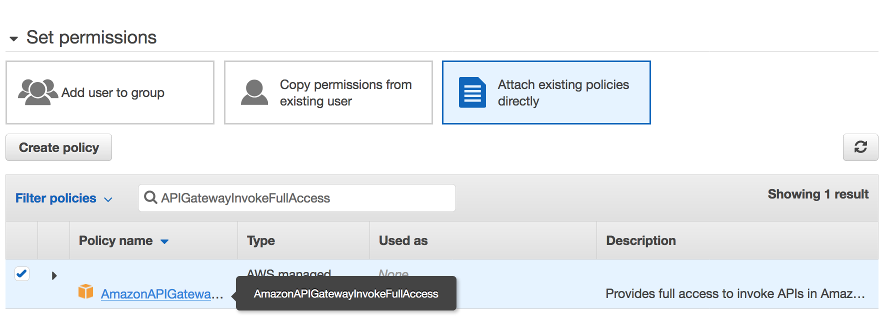
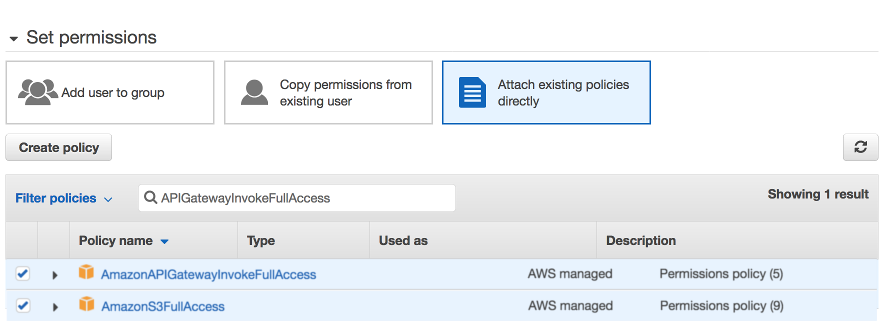
update tutorial materials

Changed region(s): [[0.0, 0.8075, 0.5157, 0.9938], [0.5764, 0.8385, 0.9708, 0.9938], [0.0, 0.8385, 0.0303, 0.8696]]

diff --git a/deployment/tutorials/2-restful-api.md b/deployment/tutorials/2-restful-api.md
@@ -37,13 +37,18 @@ Media2Cloud RESTful API endpoint requires AWS_IAM authentication; therefore, we 
 aws iam create-user --user media2cloud-api-user
 ```
 
-3. Attach **AmazonAPIGatewayInvokeFullAccess** policy to the user
+3. Attach **AmazonAPIGatewayInvokeFullAccess** and **AmazonS3FullAccess** policies to the user
 
 ```
 aws iam attach-user-policy \
 --policy-arn arn:aws:iam::aws:policy/AmazonAPIGatewayInvokeFullAccess \
 --user media2cloud-api-user
+
+aws iam attach-user-policy \
+--policy-arn arn:aws:iam::aws:policy/AmazonS3FullAccess \
+--user media2cloud-api-user
 ```
+
 
 4. Create access key
 
@@ -64,19 +69,8 @@ aws iam create-access-key --user media2cloud-api-user
 }
 ```
 
-#### Option 2 - Using AWS Management Console to create an IAM user
-1. Go to **IAM service**
-2. Click on **Users**
-3. Click on **Add user**, specify **User name**. Under **Access type**, make sure **Programmatic access** is _CHECKED_. Click Next to continue.
-![Add user details](./images/iam-add-user-details.png)
-4. Under **Set permission**, select **Attach existing policies directly**. Search for APIGatewayInvokeFullAccess and select **AmazonAPIGatewayInvokeFullAccess**. Click Next to continue.
-![User permission](./images/iam-add-user-permission.png)
-5. Under Add Tag page, Click Next to continue
-6. Under Review page, Click **Create user**
-7. You just created an IAM user to user Media2Cloud RESTful APIs. Make sure you download the csv file of your API user. We will need it to configure Postman in the next section.
-![API user credential](./images/iam-add-user-credentials.png)
+**IMPORTANT NOTE:** For simplicity, this tutorial uses **AmazonAPIGatewayInvokeFullAccess** and **AmazonS3FullAccess** policies. For production or staging environment, we highly recommend you to limit the policy to the least privilege access. For example, you can create a policy to allow the api user to only being able to invoke Media2Cloud RESTful API endpoints and access to specific bucket(s) but provide **no permission** to other resources.
 
-**IMPORTANT NOTE:** For simplicity, this tutorial uses **AmazonAPIGatewayInvokeFullAccess** policy. For production or staging environment, we highly recommend you to limit the policy to the least privilege access. For example, you can create a policy to allow the api user to only being able to invoke Media2Cloud RESTful API endpoints and **no permission** to other resources.
 ```
 {
   "Version": "2012-10-17",
@@ -95,15 +89,40 @@ aws iam create-access-key --user media2cloud-api-user
         "arn:aws:execute-api:<region>:<account-id>:<api-id>/<stage>/POST/*",
         "arn:aws:execute-api:<region>:<account-id>:<api-id>/<stage>/DELETE/*"
       ]
+    },
+    {
+      "Effect": "Allow",
+      "Principal": {
+        "AWS": "arn:aws:iam::<account>:user/media2cloud-api-user"
+      },
+      "Action": [
+        "s3:GetObject",
+        "s3:PutObject"
+      ],
+      "Resource": [
+        "arn:aws:s3:::<ingest-bucket-name>/*"
+      ]
     }
   ]
 }
 ```
 
+#### Option 2 - Using AWS Management Console to create an IAM user
+1. Go to **IAM service**
+2. Click on **Users**
+3. Click on **Add user**, specify **User name**. Under **Access type**, make sure **Programmatic access** is _CHECKED_. Click Next to continue.
+![Add user details](./images/iam-add-user-details.png)
+4. Under **Set permission**, select **Attach existing policies directly**. Search for **AmazonAPIGatewayInvokeFullAccess** and **AmazonS3FullAccess** and attach both policies. Click Next to continue.
+![User permission](./images/iam-add-user-permission.png)
+5. Under Add Tag page, Click Next to continue
+6. Under Review page, Click **Create user**
+7. You just created an IAM user to user Media2Cloud RESTful APIs. Make sure you download the csv file of your API user. We will need it to configure Postman in the next section.
+![API user credential](./images/iam-add-user-credentials.png)
+
 --
 
 ### Step 3: Install and configure Postman
-For this tutorial, we will use Postman application to send requests. [Click here](https://www.getpostman.com/apps) to download and install it.
+For this tutorial, we will use Postman application to send requests. If you have not installed it, [download](https://www.getpostman.com/apps) and install it.
 
 
 #### Step 3.1: Import the Media2Cloud Postman collection template
@@ -150,6 +169,8 @@ For simplity, we created a Postman collection template (JSON document) to help y
 
 4. Replace **\<aws-region\>** to the actual AWS region where you create the Media2Cloud stack. AWS Region should is something like **us-east-1**, **us-west-2**, **eu-west-1**, and etc.
 
+5. Find **\<Media2CloudEndpoint\>** and replace all **six** appearances to the actual Media2CloudEndpoint you obtain in [Step 1: Locate your Media2Cloud RESTful API endpoint](./2-restful-api.md#step-1-locate-your-media2cloud-restful-api-endpoint)
+
 5. After you make the change, save the template.
 
 6. Open Postman application, click on **Import** button, and import the template
@@ -172,8 +193,6 @@ To start the ingest, we assume that your video file is already **uploaded** to t
 | Body | JSON document contains **bucket** and **key** |
 
 Click on **Start ingest** request from the Media2Cloud collection menu.
-
-Replace **\<Media2CloudEndpoint\>** with the actual Media2CloudEndpoint you obtain from [Step 1: Locate your Media2Cloud RESTful API endpoint](./2-restful-api.md#step-1-locate-your-media2cloud-restful-api-endpoint)
 
 Click on **Body** to change the JSON body to use the the actual ingest bucket name and object key.
 ```
@@ -219,15 +238,13 @@ where
 --
 
 ### Step 5: Get a list of files ingested in Media2Cloud
-To get a list of files, click on **Get a list of ingested contents** request from the Media2Cloud collection menu.
+To get a list of files, click on **Get a list of ingested content** request from the Media2Cloud collection menu.
 
 | Field | Value |
 |:---  |:------------|
 | Method | GET |
 | URL | https://**\<Media2CloudEndpoint\>**/assets |
 | Body | -- |
-
-Replace **\<Media2CloudEndpoint\>** with the actual Media2CloudEndpoint you obtain from [Step 1: Locate your Media2Cloud RESTful API endpoint](./2-restful-api.md#step-1-locate-your-media2cloud-restful-api-endpoint)
 
 Click on **Send**
 
@@ -272,8 +289,6 @@ To get the detail of a specifc ingested content, click on **Get information of a
 | Method | GET |
 | URL | https://**\<Media2CloudEndpoint\>**/assets/**\<uuid\>** |
 | Body | -- |
-
-Replace **\<Media2CloudEndpoint\>** with the actual Media2CloudEndpoint you obtain from [Step 1: Locate your Media2Cloud RESTful API endpoint](./2-restful-api.md#step-1-locate-your-media2cloud-restful-api-endpoint)
 
 Replace **\<uuid\>** with the actual **uuid** of the file.
 
@@ -339,8 +354,6 @@ To start analysis process, click on **Start analysis** request from the Media2Cl
 | URL | https://**\<Media2CloudEndpoint\>**/analysis |
 | Body | JSON document contains **uuid** |
 
-Replace **\<Media2CloudEndpoint\>** with the actual Media2CloudEndpoint you obtain from [Step 1: Locate your Media2Cloud RESTful API endpoint](./2-restful-api.md#step-1-locate-your-media2cloud-restful-api-endpoint)
-
 Replace **\<uuid\>** with the **uuid** from [Step 4](./2-restful-api.md#step-4-start-to-ingest-content-to-media2cloud)
 
 ```
@@ -383,8 +396,6 @@ To get the analysis results of a file, click on **Get analysis results** from th
 | Method | GET |
 | URL | https://**\<Media2CloudEndpoint\>**/analysis/\<uuid\> |
 | Body | -- |
-
-Replace **\<Media2CloudEndpoint\>** with the actual Media2CloudEndpoint you obtain from [Step 1: Locate your Media2Cloud RESTful API endpoint](./2-restful-api.md#step-1-locate-your-media2cloud-restful-api-endpoint)
 
 Replace **\<uuid\>** with the actual **uuid** of the file
 
@@ -458,10 +469,11 @@ where
 | rekognition.celeb.id | Rekognition job id |
 | rekognition.celeb.startTime | start time of celeb detection |
 | rekognition.celeb.endTime | end time of celeb detection |
-| rekognition.celeb.metadata | key prefix of metadata and vtt tracks |
+| rekognition.celeb.metadata | key prefix of metadata tracks |
+| rekognition.celeb.vtt | key prefix of vtt tracks |
 | rekognition.celeb.trackBasenames | tracks generated by M2C |
-| rekognition.celeb.trackBasenames.metadata | a list of metadata tracks generated by M2C |
 | rekognition.celeb.trackBasenames.metadata | a list of webvtt tracks generated by M2C |
+| rekognition.celeb.trackBasenames.vtt | a list of vtt tracks generated by M2C |
 | comprehend | comprehend detection |
 | comprehend.keyphrase | comprehend key phrase detection |
 | comprehend.keyphrase.output | location of the raw keyphrase detection results |
@@ -471,16 +483,14 @@ where
 
 --
 
-### Step 9: Search contents
-To search contents from Amazon Elasticsearch engine, click on **Search Elasticsearch engine** from the Media2Cloud collection menu.
+### Step 9: Search content
+To search content from Amazon Elasticsearch engine, click on **Search Elasticsearch engine** from the Media2Cloud collection menu.
 
 | Field | Value |
 |:---  |:------------|
 | Method | GET |
 | URL | https://**\<Media2CloudEndpoint\>**/search?query=**\<search-term\>** |
 | Body | -- |
-
-Replace **\<Media2CloudEndpoint\>** with the actual Media2CloudEndpoint you obtain from [Step 1: Locate your Media2Cloud RESTful API endpoint](./2-restful-api.md#step-1-locate-your-media2cloud-restful-api-endpoint)
 
 Replace **\<search-term\>** with the actual search teram; i.e, **john**
 
@@ -503,7 +513,7 @@ where
 |:---  |:------------|
 | uuids | a list of content uuids matches the search term |
 | token | a token indicating the current pagination position of search result list. You can use it to page the next results by add it to the query string. For example, <br>_https://\<Media2CloudEndpoint\>/search?query=\<search-term\>&**token=2**_ |
-| total | total number of contents that matches the search term |
+| total | total number of items that matches the search term |
 
 ----
 

diff --git a/deployment/tutorials/appendix-a-add-cognito-user.md b/deployment/tutorials/appendix-a-add-cognito-user.md
@@ -1,6 +1,6 @@
 ## Appendix A: adding user to Media2Cloud web portal with Amazon Cognito User Pool service
 
-This tutorial describes how you can create new user and grant permission to access Media2Cloud web portal.
+This tutorial describes how you can create a new user and grant permission to access Media2Cloud web portal.
 
 ----
 
@@ -13,7 +13,7 @@ Under _AWS Management console_, choose **Amazon Cognito service** and select _Ma
 
 ### Step 2: Select Media2Cloud user pool
 You should see two user pools created by Media2Cloud: one for your labeling workteam and one for Media2Cloud web portal.
-Select the user pool suffixed with **-userpool**. (The name convention is SO0050-**<StackName>**-userpool)
+Select the user pool suffixed with **-userpool**. (The name convention is SO0050-**\<stack-name\>**-userpool)
 
 ![Choose user pool](./images/cognito-choose-user-pool.png)
 
@@ -28,6 +28,7 @@ Under _General settings_, select **Users and groups**. Click on **Create user**.
 
 ### Step 4: Fill in user details
 Fill in the following information:
+
 | Field | Description | Required? |
 |:------|:------------|:----------|
 | Username | your log in name to Media2Cloud web portal | Yes |
@@ -37,11 +38,20 @@ Fill in the following information:
 | Mark phone number as verified? | Leave it blank | No |
 | Email | a valid email address to receive an invitation email from Media2Cloud | Yes |
 | Mark email as verified? | Make sure this is **CHECKED** | Yes |
+
+
 ![Create user](./images/cognito-create-user-details.png)
 
+Click on **Create user**.
 
-Click on **Create user**. In a few minutes, you should receive an invitation email as follows.
+--
+
+### Step 5: Invitation email
+In a few minutes, you should receive an **invitation email** as follows.
+
 ![Invitation email](./images/welcome-email.png)
+
+Open the link with [Mozilla Firefox](https://www.mozilla.org/en-US/firefox/new/) or [Google Chrome](https://www.google.com/chrome/) browser.
 
 ----
 

diff --git a/deployment/tutorials/3-s3-event-trigger.md b/deployment/tutorials/3-s3-event-trigger.md
@@ -13,7 +13,7 @@ aws s3 cp some-video.mp4 s3://<ingest-bucket-name>/demo/ [--proile <your-profile
 where **\<ingest-bucket-name\>** you can find it from AWS CloudFormation console:
   * Go to **AWS CloudFormation console**, select the **Media2Cloud** stack you created
   * Click on **Outputs** tab and search for **IngestBucket**
-2. When the file is landed on S3 bucket, S3 sends a s3:ObjectCreated:* notification where we will configure a lambda function to subscribe to that notification and to process the event.
+2. When the file landed in the S3 bucket, S3 sends a s3:ObjectCreated:* notification where we will configure a lambda function to subscribe to that notification and to process the event.
 3. The lambda function parses the notification event and calls Media2Cloud RESTful APIs to ingest the file.
 4. The ingest API (POST /assets) invokes the ingest process by starting a state machine.
 
@@ -36,7 +36,7 @@ Under Create function page, choose **Author from scratch** and fill in the follo
 
 ![Create lambda function](./images/lambda-create-function.png)
 
-Click _Next_ to continue.
+Click _Create function_ to continue.
 
 --
 
@@ -72,7 +72,7 @@ This should bring you to **Identity and Access Management (IAM)** service. Click
 
 ![IAM execution role summary](./images/iam-role-summary.png)
 
-Under Attach Permissions page, search **AmazonAPIGatewayInvoke**, check the checkbox, and **Attach policy**.
+Under Attach Permissions page, search **AmazonAPIGatewayInvokeFullAccess**, check the checkbox, and **Attach policy**.
 
 ![Attach API policy](./images/iam-attach-api-policy.png)
 
@@ -138,7 +138,7 @@ Search for , you should see
 ```
   /**
     * TODO#5: What is the path for starting ingest process?
-    * Tips: Review Tutorial #2, Using Media2Cloud RESTful API
+    * Tips: Review Tutorial #2, Using Media2Cloud RESTful API. Do not include '/demo'
     */
   function getIngestHttpPath() {
     return '#INGEST_PATH';

diff --git a/deployment/tutorials/README.md b/deployment/tutorials/README.md
@@ -1,7 +1,14 @@
-## Media2Cloud tutorial
+## Media2Cloud mini workshop
 
 This tutorial walks you through to create Media2Cloud with AWS CloudFormation service. We will then show you a few techniques to automate Media2Cloud processes such as ingesting contents and analyzing contents with various AWS services.
 
+### Prerequisite
+* Download and install [Mozilla Firefox](https://www.mozilla.org/en-US/firefox/new/) or [Google Chrome](https://www.google.com/chrome/) browser. We will use it to access the Media2Cloud web portal.
+* Download and install [Postman](https://www.getpostman.com/apps). We will use it for Step 2.
+* Optionally if you need some sample files to test, download it [here](http://d2yqlwoly7fl0b.cloudfront.net/tutorials/samples/sample-files.zip)
+
+
+### Mini workshop rundown
 We will start off with creating your own Media2Cloud instance. Then, we will use Media2Cloud RESTful api to drive the ingest and analysis processes; use Amazon S3 event to autostart ingest process when you upload a file. At last, we will use Amazon SNS notification to autostart the analysis process when the file has been ingested. Appendix A shows you how you can add and manage Media2Cloud users with Amazon Cognito User Pool service.
 
 

diff --git a/deployment/tutorials/4-sns-notification.md b/deployment/tutorials/4-sns-notification.md
@@ -13,7 +13,7 @@ where
 
 So, to get this to work, we will:
 * reuse the lambda function we created earlier
-* add a trigger to let Amazon SNS service to invoke our lambda function
+* add a trigger to let Amazon SNS service invoke our lambda function
 * modify the code to support SNS notification
 * test it out
 
@@ -50,13 +50,13 @@ Click on _Add_.
 ```
   /**
   * TODO#7: What should the HTTP method be for starting analysis process?
-  * Tips: Review Tutorial #2, Using Media2Cloud RESTful API
+  * Tips: Review Tutorial #2, Using Media2Cloud RESTful API. Do not include '/demo'
   */
   function getAnalysisHttpPath() {
     return '#ANALYSIS_PATH';
   }
 ```
-* You can also look at the function to deconstruct SNS message
+* This function we have already written for you shows how to parse an SNS message
 ```
   function getUuidFromSnsEvent(event) {
     const message = JSON.parse(event.Records[0].Sns.Message);

diff --git a/deployment/tutorials/1-create-stack.md b/deployment/tutorials/1-create-stack.md
@@ -44,7 +44,7 @@ The solution takes about 20 minutes to complete. When the stack is created, you 
 --
 
 ### Step 6: Log on to Media2Cloud web portal
-Click on the URL link in the Welcome email and sign in with the credential provided in the email. The first time you sign in to the web portal, you will be prompted to change your password.
+Click on the URL link in the **Welcome email** and sign in with the credential provided in the email. Use [Mozilla Firefox](https://www.mozilla.org/en-US/firefox/new/) or [Google Chrome](https://www.google.com/chrome/) to open the Media2Cloud web portal. The first time you open and sign in to the web portal, you will be prompted to change your password.
 
 Now, you can start upload images and videos.
 
